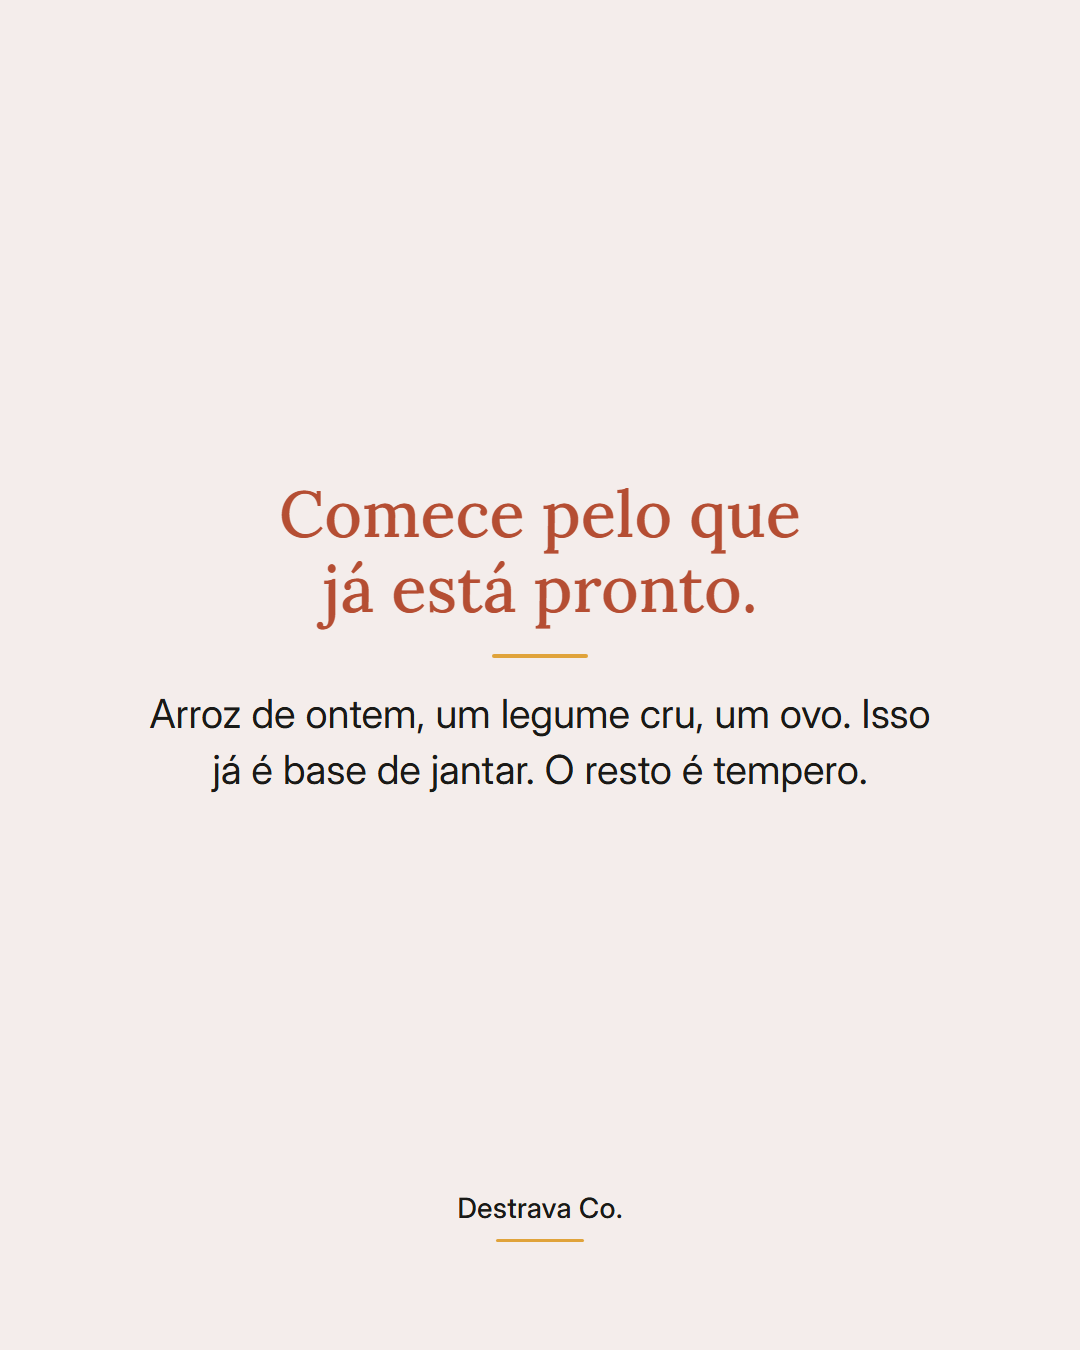
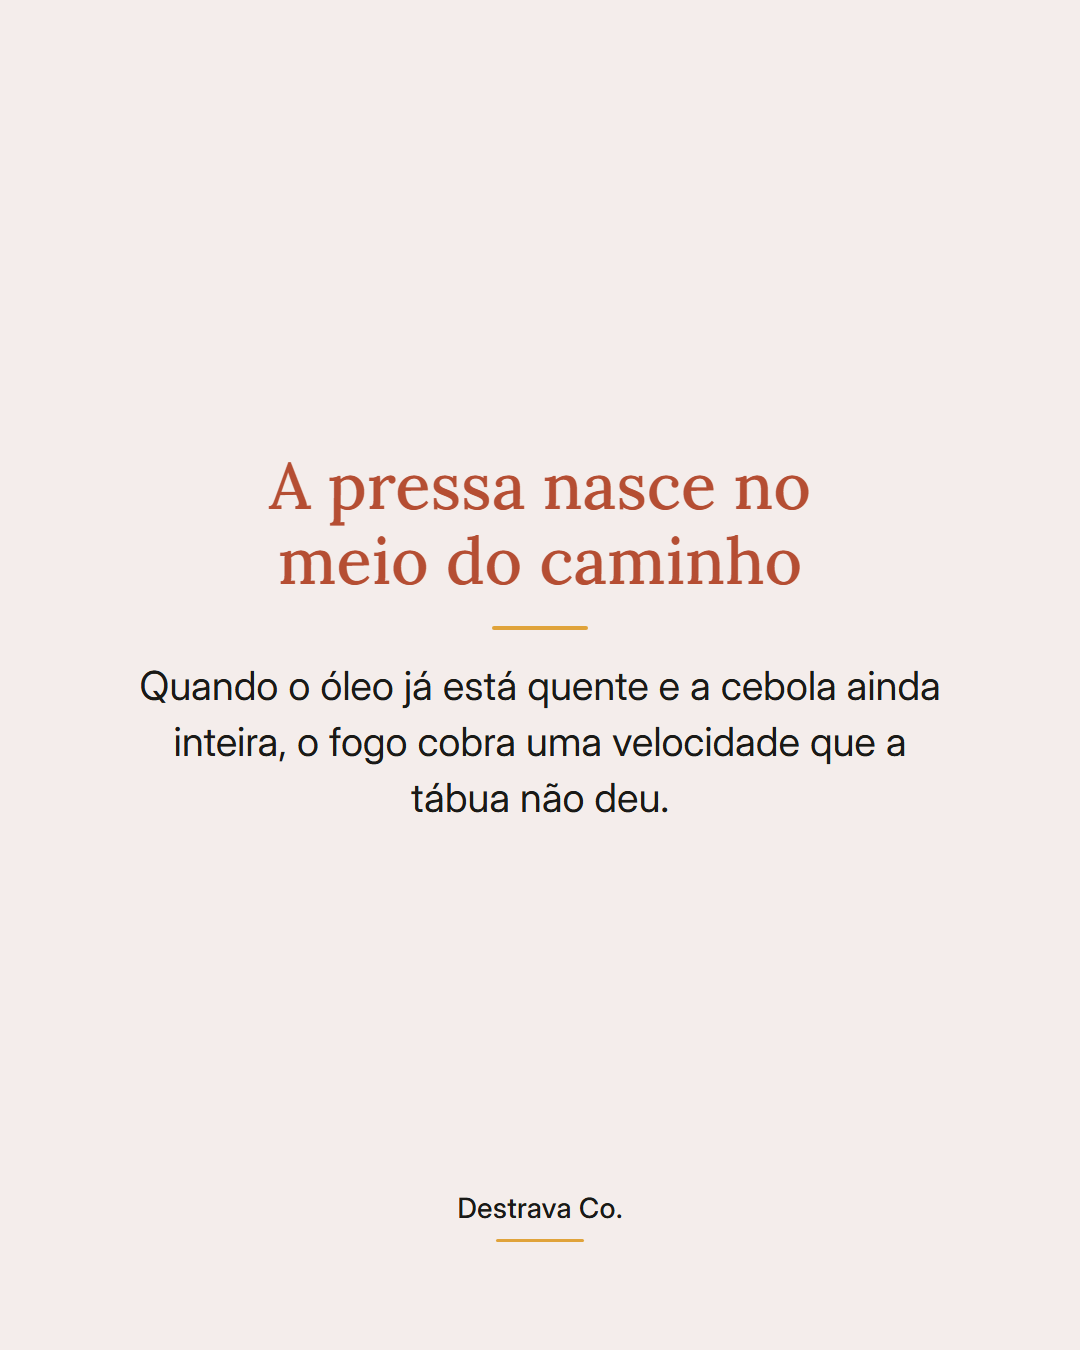
content: peças Instagram 2026_09_17

Changed region(s): [[0.1222, 0.4978, 0.8861, 0.6222], [0.2444, 0.3422, 0.7639, 0.4667]]

diff --git a/public/content/2026_09_17/index.html b/public/content/2026_09_17/index.html
@@ -18,19 +18,24 @@
 </style>
 </head>
 <body>
-<h1>Cozinha · capa A (campo)</h1>
-<div class="meta">2026-09-17 · gerado em 2026-09-16T14:28:31 · sticker sugerido nos Stories: enquete</div>
+<h1>Cozinha · capa B (wash4)</h1>
+<div class="meta">2026-09-17 · gerado em 2026-09-17T15:54:24 · sticker sugerido nos Stories: quiz</div>
 <h2>Carrossel</h2>
-<div class="strip"><img src="2026_09_17_-_Carrossel_Cozinha_01.png" alt="Fundo terracota com título creme e foto real de um prato de legumes e quinoa visto de cima." title="2026_09_17_-_Carrossel_Cozinha_01.png"><img src="2026_09_17_-_Carrossel_Cozinha_02.png" alt="Fundo rosado claro, título terracota e texto curto sobre usar o que já está pronto." title="2026_09_17_-_Carrossel_Cozinha_02.png"><img src="2026_09_17_-_Carrossel_Cozinha_03.png" alt="Fundo rosado claro, título terracota e texto sobre cozinhar tudo numa panela." title="2026_09_17_-_Carrossel_Cozinha_03.png"><img src="2026_09_17_-_Carrossel_Cozinha_04.png" alt="Fundo rosado claro com lista de três combinações rápidas de jantar." title="2026_09_17_-_Carrossel_Cozinha_04.png"><img src="2026_09_17_-_Carrossel_Cozinha_05.png" alt="Fundo terracota, texto creme convidando a baixar o PDF gratuito e botão mostarda link na bio." title="2026_09_17_-_Carrossel_Cozinha_05.png"></div>
+<div class="strip"><img src="2026_09_17_-_Carrossel_Cozinha_01.png" alt="Fundo rosado wash4 com foto real de tábua com legumes picados e o título em ink." title="2026_09_17_-_Carrossel_Cozinha_01.png"><img src="2026_09_17_-_Carrossel_Cozinha_02.png" alt="Fundo wash1 bem claro com o título em campo profundo explicando por que a pressa aparece no meio do preparo." title="2026_09_17_-_Carrossel_Cozinha_02.png"><img src="2026_09_17_-_Carrossel_Cozinha_03.png" alt="Fundo wash1 bem claro com título em campo profundo e lista de três passos antes de ligar o fogo." title="2026_09_17_-_Carrossel_Cozinha_03.png"><img src="2026_09_17_-_Carrossel_Cozinha_04.png" alt="Fundo wash1 bem claro com título em campo profundo e frase sobre cozinhar apenas juntando os ingredientes." title="2026_09_17_-_Carrossel_Cozinha_04.png"><img src="2026_09_17_-_Carrossel_Cozinha_05.png" alt="Fundo campo profundo com texto creme e botão no tom de acento convidando a baixar o PDF de receitas." title="2026_09_17_-_Carrossel_Cozinha_05.png"></div>
 <h2>Stories</h2>
-<div class="strip"><img class="story" src="2026_09_17_-_Stories_Cozinha_01.png" alt="Stories em fundo terracota com título creme, foto real de prato e chip mostarda." title="2026_09_17_-_Stories_Cozinha_01.png"></div>
+<div class="strip"><img class="story" src="2026_09_17_-_Stories_Cozinha_01.png" alt="Stories em fundo rosado wash4 com título em ink, foto real de legumes picados e chip mostarda convidando a deslizar pro feed." title="2026_09_17_-_Stories_Cozinha_01.png"><img class="story" src="2026_09_17_-_Stories_Cozinha_02.png" alt="Stories em fundo terracota com convite ao e-book gratuito de 20 receitas rápidas e o endereço da página em destaque no chip mostarda." title="2026_09_17_-_Stories_Cozinha_02.png"></div>
+<div class="meta">1º · stories post do dia · sticker: quiz → post do dia (permalink em publicado.json depois de publicar)</div><div class="meta">2º · stories oferta · sticker: link → <a href="https://lp.destravaco.com.br/receitas-15min">https://lp.destravaco.com.br/receitas-15min</a></div>
 <h2>Legenda</h2>
-<pre>O jantar de hoje não precisa de receita nova.
-Se tem arroz de ontem, um legume e um ovo, tem jantar em 15 minutos. O segredo não é cozinhar melhor, é decidir menos.
+<pre>Cozinhar fica rápido quando a tábua vem antes do fogo.
 
-Salve este post pro dia corrido e compartilhe com quem vive perguntando o que fazer de janta.
-As 20 receitas rápidas estão no PDF gratuito, no link da bio.
+Jantar prático quase nunca é questão de receita nova. É ordem: picar cebola, alho e o legume que tiver, separar tempero, óleo e sal, e só depois acender a boca do fogão.
 
-<span class="tags">#receitasrapidas #comidadeverdade #jantarpratico #receitasfaceis #cozinhapratica</span></pre>
+São uns três minutos de tábua que economizam aquela correria de mexer a panela com uma mão e cortar com a outra. Sem cheiro de queimado, sem começar o jantar de mau humor.
+
+Depois disso, cozinhar é só montar. E ainda sobra tempo pra deixar a pia mais limpa antes de sentar pra comer.
+
+Salva pra lembrar na próxima terça e manda pra quem sempre cozinha com pressa. Se quiser ideias já pensadas pra até 15 minutos, o PDF com 20 receitas rápidas está esperando você.
+
+<span class="tags">#cozinhapratica #jantarpratico #receitasrapidas #praticidadenacozinha #comidadeverdade</span></pre>
 </body>
 </html>
